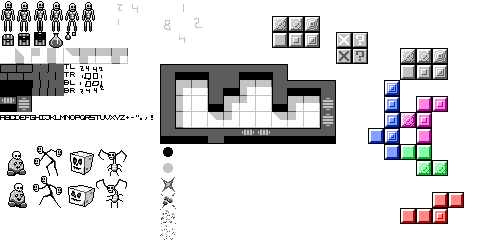
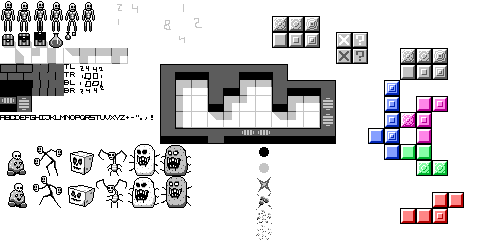
added chests and potions

diff --git a/src/world/entities.py b/src/world/entities.py
@@ -1,9 +1,11 @@
 import pygame
 import random
+import math
 
 import renderengine.img as img
 import spriteref
 import inputs
+from world.worldstate import World
 
 class Entity:
 
@@ -18,6 +20,15 @@ class Entity:
     def y(self):
         return self.rect[1]
         
+    def w(self):
+        return self.rect[2]
+        
+    def h(self):
+        return self.rect[3]
+        
+    def center(self):
+        return self.rect.center
+        
     def set_x(self, x):
         self._x = x
         self.rect[0] = int(x)
@@ -26,28 +37,37 @@ class Entity:
         self._y = y
         self.rect[1] = int(y)
         
+    def move(self, dx, dy, avoid_solids_in_world=None):
+        """
+            returns: True if collided with something solid, else False
+        """
+        pass
+        
     def update(self, world, global_state, input_state, render_engine):
         pass 
-        
+
+    def is_player(self):
+        return False
+             
 
 class Player(Entity):
 
     def __init__(self, x, y):
         Entity.__init__(self, x, y, 24, 24)
-        self._needs_bun_update = True
         self._bundle = img.ImageBundle(spriteref.player_idle_0, x, y, 
                 absolute=False, scale=2, depth=5)
         self.is_moving = False
         self.facing_left = True
+        self.move_speed = 2
             
-            
+               
     def _regen_bundle(self, anim_tick):
         if self.is_moving:
             model = spriteref.player_move_all[anim_tick % len(spriteref.player_move_all)]
         else:
-            model = spriteref.player_idle_all[anim_tick % len(spriteref.player_idle_all)]
-        x = self.x()
-        y = self.y()
+            model = spriteref.player_idle_all[(anim_tick // 2) % len(spriteref.player_idle_all)]
+        x = self.x() - (model.width() * self._bundle.scale() - self.w()) // 2
+        y = self.y() - (model.height() * self._bundle.scale() - self.h())
         self._bundle = self._bundle.update(new_model=model, new_x=x, new_y=y)
         return self._bundle
             
@@ -62,10 +82,151 @@ class Player(Entity):
             move_x /= 1.4142 
             move_y /= 1.4142   
         
-        self.set_x(self._x + move_x * 1.5)
-        self.set_y(self._y + move_y * 1.5)
+        self.set_x(self._x + move_x * self.move_speed)
+        self.set_y(self._y + move_y * self.move_speed)
         render_engine.update(self._regen_bundle(global_state.anim_tick)) 
+        
+    def is_player(self):
+        return True
+        
+
+class Enemy(Entity):
+    def __init__(self, x, y, sprites):
+        Entity.__init__(self, x, y, 32, 32)
+        self._bundle = img.ImageBundle(sprites[0], x, y, absolute=False, scale=2, depth=5)
+        self.facing_left = True
+        self.sprites = sprites
+        self.dir = [0, 0]
+    
+    def _regen_bundle(self, anim_tick):
+        model = self.sprites[(anim_tick // 2) % len(self.sprites)]
+        x = self.x() - (model.width() * self._bundle.scale() - self.w()) // 2
+        y = self.y() - (model.height() * self._bundle.scale() - self.h())
+        self._bundle = self._bundle.update(new_model=model, new_x=x, new_y=y)
+        return self._bundle
+        
+    def update(self, world, global_state, input_state, render_engine):
+        if random.random() < 0.01:
+            i = int(10 * random.random())
+            if i >= 4:
+                self.dir = [0, 0]
+            else:
+                self.dir = [[-1, 0], [1, 0], [0, 1], [0, -1]][i]
+        
+        x1 = self.x()
+        x2 = self.x() + self.w()
+        y1 = self.y()
+        y2 = self.y() + self.h()
+        
+        if self.dir[0] < 0:
+            if world.get_geo_at(x1 - 1, y1) == World.WALL or world.get_geo_at(x1 - 1, y2) == World.WALL:
+                self.dir[0] = 1
+        elif self.dir[0] > 0:
+            if world.get_geo_at(x2 + 1, y1) == World.WALL or world.get_geo_at(x2 + 1, y2) == World.WALL:
+                self.dir[0] = -1
+        elif self.dir[1] > 0:
+            if world.get_geo_at(x1, y2 + 1) == World.WALL or world.get_geo_at(x2, y2 + 1) == World.WALL:
+                self.dir[1] = -1
+        elif self.dir[1] < 0:
+            if world.get_geo_at(x1, y1 - 1) == World.WALL or world.get_geo_at(x2, y1 - 1) == World.WALL:
+                self.dir[1] = 1
+                
+        self.set_x(self._x + self.dir[0] * 0.65)
+        self.set_y(self._y + self.dir[1] * 0.65)   
+
+        render_engine.update(self._regen_bundle(global_state.anim_tick)) 
+        
+
+class ChestEntity(Entity):
+    def __init__(self, x, y):
+        Entity.__init__(self, x, y, 24, 24)
+        self.ticks_to_open = 30
+        self.current_cooldown = self.ticks_to_open
+        self._bundle = img.ImageBundle(spriteref.chest_closed, x, y, absolute=False, scale=2, depth=5)
+    
+    def _regen_bundle(self):
+        if self.is_open():
+            model = spriteref.chest_open_1
+        elif self.current_cooldown < self.ticks_to_open:
+            model = spriteref.chest_open_0
+        else:
+            model = spriteref.chest_closed
             
+        x = self.x() - (model.width() * self._bundle.scale() - self.w())
+        y = self.y() - (model.height() * self._bundle.scale() - self.h())
+        self._bundle = self._bundle.update(new_model=model, new_x=x, new_y=y)
+        return self._bundle
+        
+    def is_open(self):
+        return self.current_cooldown <= 0
+    
+    def _do_open(self, world):
+        num_potions = 1 + int(random.random()*3)
+        for _ in range(0, num_potions):
+            c = self.center()
+            angle = random.random() * 6.28 # 2pi-ish
+            speed = 2 + random.random() * 3
+            vel = (speed*math.cos(angle), speed*math.sin(angle))
+            world.add(PotionEntity(c[0], c[1], vel=vel))
             
+    
+    def update(self, world, global_state, input_state, render_engine):
+        
+        if not self.is_open():
+            player_nearby = False
+            p = world.get_player()
+            if p is not None:
+                dx = self.center()[0] - p.center()[0]
+                dy = self.center()[1] - p.center()[1]
+                player_nearby = dx*dx + dy*dy < 30*30
+            
+            if player_nearby:
+                self.current_cooldown -= 1
+            else:
+                self.current_cooldown = self.ticks_to_open
+                
+            if self.is_open():
+                self._do_open(world)           
+             
+        render_engine.update(self._regen_bundle()) 
+        
+        
+class ItemEntity(Entity):
+    pass
+    
+    
+class PotionEntity(Entity):
+    def __init__(self, cx, cy, vel=(0, 0)):
+        x = cx - 8
+        y = cy - 8
+        Entity.__init__(self, x, y, 16, 16)
+        self._bundle = img.ImageBundle(spriteref.potion_small, x, y, absolute=False, scale=2, depth=5)
+        self.pickup_delay = 45
+        self.vel = [vel[0], vel[1]]
+        self.fric = 0.90
+    
+    def _regen_bundle(self):
+        model = self._bundle.model()
+        x = self.x() - (model.width() * self._bundle.scale() - self.w())
+        y = self.y() - (model.height() * self._bundle.scale() - self.h())
+        self._bundle = self._bundle.update(new_model=model, new_x=x, new_y=y)   
+        return self._bundle
+        
+    def can_pickup(self):
+        return self.pickup_delay <= 0
+        
+    def update(self, world, global_state, input_state, render_engine):
+        if self.pickup_delay > 0:
+            self.pickup_delay -= 1
+              
+        if self.vel[0] != 0:
+            self.set_x(self._x + self.vel[0])
+            self.vel[0] = 0 if abs(self.vel[0]) < 0.05 else self.vel[0] * self.fric 
+           
+        if self.vel[1] != 0:
+            self.set_y(self._y + self.vel[1])
+            self.vel[1] = 0 if abs(self.vel[1]) < 0.05 else self.vel[1] * self.fric
+            
+        render_engine.update(self._regen_bundle()) 
         
     

diff --git a/src/world/worldstate.py b/src/world/worldstate.py
@@ -20,8 +20,28 @@ class World:
             
         self.entities = []
         
-    def add(self, entity):
+    def cellsize(self):
+        return CELLSIZE
+        
+    def add(self, entity, gridcell=None):
+        """
+            gridcell: (grid_x, grid_y) or None
+        """
+        if gridcell is not None:
+            x = gridcell[0] * self.cellsize() + (self.cellsize() - entity.w()) // 2
+            y = gridcell[1] * self.cellsize() + (self.cellsize() - entity.h()) // 2
+            entity.set_x(x)
+            entity.set_y(y)
+            
         self.entities.append(entity)
+        
+    def get_player(self):
+        for e in self.entities:
+            if e.is_player():
+                return e
+        return None
+        
+                
         
     def set_geo(self, grid_x, grid_y, geo_id, quietly=False):
         if self.is_valid(grid_x, grid_y):
@@ -34,7 +54,10 @@ class World:
         if self.is_valid(grid_x, grid_y):
             return self._level_geo[grid_x][grid_y]
         else:
-            return 
+            return World.EMPTY
+            
+    def get_geo_at(self, pixel_x, pixel_y):
+        return self.get_geo(pixel_x // self.cellsize(), pixel_y // self.cellsize())
             
     def is_valid(self, grid_x, grid_y):
         return (grid_x >= 0 and grid_x < self.size()[0] 

diff --git a/src/spriteref.py b/src/spriteref.py
@@ -19,9 +19,25 @@ player_move_2 = make(64, 0, 16, 32)
 player_move_3 = make(80, 0, 16, 32)
 player_move_all = [player_move_0, player_move_1, player_move_2, player_move_3]
 
-chest = make(0, 32, 16, 16)
-chest_open_1 = make(16, 32, 16, 16)
-chest_open_2 = make(32, 32, 16, 16)
+chest_closed = make(0, 32, 16, 16)
+chest_open_0 = make(16, 32, 16, 16)
+chest_open_1 = make(32, 32, 16, 16)
+chest_open_all = [chest_open_0, chest_open_1]
+
+enemy_glorple_all = [make(0, 144, 32, 32), make(0, 176, 32, 32)]
+enemy_trilla_all = [make(32, 144, 32, 32), make(32, 176, 32, 32)]
+enemy_dicel_all = [make(64, 144, 32, 32), make(64, 176, 32, 32)]
+enemy_flappum_all = [make(96, 144, 32, 32), make(96, 176, 32, 32)]
+enemy_muncher_all = [make(128, 144, 32, 32), make(128, 176, 32, 32)]
+enemy_muncher_alt_all = [make(160, 144, 32, 32), make(160, 176, 32, 32)]
+enemies_all = [enemy_glorple_all, enemy_trilla_all, enemy_dicel_all,
+        enemy_flappum_all, enemy_muncher_all, enemy_muncher_alt_all]
+        
+potion_small = make(64, 32, 8, 8)
+potion_big = make(48, 32, 16, 16)
+
+item_piece_small = make(72, 32, 4, 4)
+
 
 """Lookup table for wall sprites:   
        0    1    2

diff --git a/src/cubelike.py b/src/cubelike.py
@@ -8,7 +8,7 @@ from globalstate import GlobalState
 from inputs import InputState
 
 from world.worldstate import World
-from world.entities import Player
+from world.entities import Player, Enemy, ChestEntity
 import renderengine.img as img
 from renderengine.engine import RenderEngine
 
@@ -24,6 +24,12 @@ def build_me_a_world(width, height):
                 w.set_geo(x, y, World.WALL)
             else:
                 w.set_geo(x, y, World.FLOOR)
+                if random.random() < 0.05:
+                    i = int(random.random() * len(spriteref.enemies_all))
+                    e = Enemy(0, 0, spriteref.enemies_all[i])
+                    w.add(e, gridcell=(x, y))
+                elif random.random() < 0.05:
+                    w.add(ChestEntity(0, 0), gridcell=(x, y))
                 
     return w
    
@@ -46,7 +52,7 @@ def run():
     height = img_surface.get_height()
     render_eng.set_texture(texture_data, width, height)
     
-    world = build_me_a_world(30, 20)
+    world = build_me_a_world(15, 10)
     
     for bun in world.get_all_bundles():
         render_eng.add(bun)

diff --git a/src/renderengine/img.py b/src/renderengine/img.py
@@ -86,6 +86,12 @@ class ImageModel:
     def size(self):
         return (self.w, self.h)
         
+    def width(self):
+        return self.w
+        
+    def height(self):
+        return self.h
+        
     def set_sheet_size(self, size):
         self.x1 = self.x
         self.x2 = self.x + self.w
@@ -101,7 +107,6 @@ class ImageModel:
         return "ImageModel({}, {}, {}, {})".format(self.x, self.y, self.w, self.h)
         
     def draw_instant(self, x_pos, y_pos, scale=1):
-        # glDepthMask(GL_FALSE)
         glBegin(GL_QUADS)
     
         glTexCoord2f(self.tx1, self.ty2)
@@ -116,6 +121,5 @@ class ImageModel:
         glTexCoord2f(self.tx2, self.ty2)
         glVertex2i(x_pos + scale * self.w, y_pos)
         glEnd() 
-        # glDepthMask(GL_TRUE)
 
 

diff --git a/src/renderengine/engine.py b/src/renderengine/engine.py
@@ -20,7 +20,6 @@ class RenderEngine:
         # glEnable(GL_DEPTH_TEST)
         glShadeModel(GL_FLAT)
         glClearColor(1.0, 0.0, 0.0, 0.0);
-        #glClearColor(1.0, 0.65, 1.0, 0.2)
 
 
     def set_texture(self, img_data, width, height):
@@ -34,7 +33,8 @@ class RenderEngine:
         glEnable(GL_TEXTURE_2D)    
         glEnable(GL_BLEND)
         glBlendFunc(GL_SRC_ALPHA, GL_ONE_MINUS_SRC_ALPHA)
-        glTexImage2D(GL_TEXTURE_2D, 0, GL_RGBA, width, height, 0, GL_RGBA, GL_UNSIGNED_BYTE, img_data)
+        glTexImage2D(GL_TEXTURE_2D, 0, GL_RGBA, width, height, 
+                0, GL_RGBA, GL_UNSIGNED_BYTE, img_data)
         
     def set_camera_pos(self, x, y):
         self.camera_pos[0] = x
